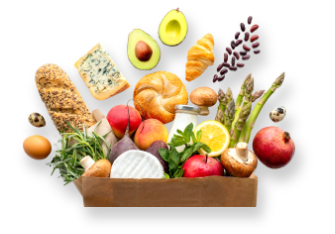
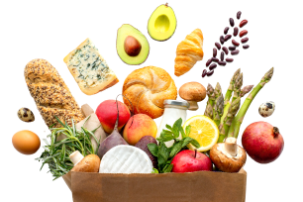
0.0.5
Готовый слайдер

diff --git a/css/style.css b/css/style.css
@@ -88,6 +88,11 @@ body {
   }
 }
 
+/* --------------------Header-----------------------*/
+.header {
+  -webkit-box-shadow: 2px 4px 8px 0px rgba(0, 0, 0, 0.1);
+          box-shadow: 2px 4px 8px 0px rgba(0, 0, 0, 0.1);
+}
 .header__wrapper {
   height: 72px;
   display: grid;
@@ -96,8 +101,6 @@ body {
       -ms-flex-align: center;
           align-items: center;
   gap: 15px;
-  -webkit-box-shadow: 2px 4px 8px 0px rgba(0, 0, 0, 0.1);
-          box-shadow: 2px 4px 8px 0px rgba(0, 0, 0, 0.1);
 }
 @media (max-width: 550px) {
   .header__wrapper {
@@ -340,8 +343,62 @@ body {
 .slider {
   background: url("../images/slider/background.png");
 }
+.slider__img {
+  height: 190px;
+  margin-left: 67px;
+  -ms-flex-item-align: end;
+      align-self: flex-end;
+}
+@media (max-width: 768px) {
+  .slider__img {
+    margin-left: 42px;
+    height: 132px;
+  }
+}
+@media (max-width: 550px) {
+  .slider__img {
+    display: none;
+  }
+}
+.slider__title {
+  display: inline;
+  font-size: 3rem;
+  font-weight: 700;
+  white-space: pre-wrap;
+}
+@media (max-width: 992px) {
+  .slider__title {
+    font-size: 2.3rem;
+  }
+}
+@media (max-width: 550px) {
+  .slider__title {
+    font-size: 1.5rem;
+  }
+}
 
 .swiper {
   width: 100%;
   height: 200px;
+}
+@media (max-width: 768px) {
+  .swiper {
+    height: 164px;
+  }
+}
+
+.swiper-slide {
+  display: -webkit-box !important;
+  display: -ms-flexbox !important;
+  display: flex !important;
+  -webkit-box-align: center;
+      -ms-flex-align: center;
+          align-items: center;
+}
+@media (max-width: 550px) {
+  .swiper-slide {
+    -webkit-box-pack: center;
+        -ms-flex-pack: center;
+            justify-content: center;
+  }
 }/*# sourceMappingURL=style.css.map */

diff --git a/index.html b/index.html
@@ -47,14 +47,10 @@
       <div class="container">
         <div class="swiper">
           <div class="swiper-wrapper">
-            <div class="swiper-slide"><img class="slider__img" src="images/slider/slide-1.png"><span class="slide__title">Доставка бесплатно от 1000 ₽</span></div>
-            <div class="swiper-slide"><img class="slider__img" src="images/slider/slide-1.png"><span class="slide__title">Слайд 2</span></div>
-            <div class="swiper-slide"><img class="slider__img" src="images/slider/slide-1.png"><span class="slide__title">Слайд 3</span></div>
+            <div class="swiper-slide"><img class="slider__img" src="images/slider/slide-1.png"><span class="slider__title">Доставка бесплатно от 1000 ₽</span></div>
+            <div class="swiper-slide"><img class="slider__img" src="images/slider/slide-1.png"><span class="slider__title">Скидка 5% на вторую доставку</span></div>
+            <div class="swiper-slide"><img class="slider__img" src="images/slider/slide-1.png"><span class="slider__title">Скидка 10% на третью и последующую доставку</span></div>
           </div>
-          <div class="swiper-pagination"></div>
-          <div class="swiper-button-prev"></div>
-          <div class="swiper-button-next"></div>
-          <div class="swiper-scrollbar"></div>
         </div>
       </div>
     </section>

diff --git a/scss/components/_slider.scss b/scss/components/_slider.scss
@@ -1,8 +1,55 @@
 .slider {
     background: url('../images/slider/background.png');
+
+    &__img {
+        height: 190px;
+        margin-left: 67px;
+        align-self: flex-end;
+
+        @media (max-width: 768px) {
+            margin-left: 42px;
+            height: 132px;
+        }
+
+        @media (max-width: 550px) {
+            display: none;
+        }
+    }
+
+    &__title {
+        display: inline;
+        font-size: 3rem;
+        font-weight: 700;
+        white-space: pre-wrap;
+
+        @media (max-width: 992px) {
+            font-size: 2.3rem;
+        }
+
+        @media (max-width: 550px) {
+            font-size: 1.5rem;
+        }
+    }
 }
 
 .swiper {
     width: 100%;
     height: 200px;
+
+
+    @media (max-width: 768px) {
+        height: 164px;
+    }
+}
+
+.swiper-wrapper {
+
+}
+
+.swiper-slide {
+    display: flex !important;
+    align-items: center;
+    @media (max-width: 550px) {
+        justify-content: center;
+    }
 }

diff --git a/scss/components/_header.scss b/scss/components/_header.scss
@@ -1,27 +1,13 @@
-body {
-    font-family: "Rubik", sans-serif;
-    color: rgb(65, 65, 65);
-}
-
-.container {
-    margin: 0 auto;
-    max-width: 1238px;
-    width: 100%;
-    padding: 0 15px 0 15px;
-
-    @media (max-width: 768px) {
-        max-width: 756px;
-    }
-}
-
+/* --------------------Header-----------------------*/
 .header {
+    box-shadow: 2px 4px 8px 0px rgba(0, 0, 0, 0.1);
+    
     &__wrapper {
         height: 72px;
         display: grid;
         grid-template-columns: auto auto auto auto auto;
         align-items: center;
         gap: 15px;
-        box-shadow: 2px 4px 8px 0px rgba(0, 0, 0, 0.1);
 
         @media (max-width: 550px) {
             grid-template-columns: 50px 1fr auto;
@@ -35,6 +21,7 @@ body {
             padding: 0 15px;
         }
     }
+
     
     &__link-img {
         @media (max-width: 550px) {

diff --git a/scss/style.scss b/scss/style.scss
@@ -1,3 +1,20 @@
 @import 'components/nulling';
+
+body {
+    font-family: "Rubik", sans-serif;
+    color: rgb(65, 65, 65);
+}
+
+.container {
+    margin: 0 auto;
+    max-width: 1238px;
+    width: 100%;
+    padding: 0 15px 0 15px;
+
+    @media (max-width: 768px) {
+        max-width: 756px;
+    }
+}
+
 @import 'components/header';
 @import 'components/slider';
